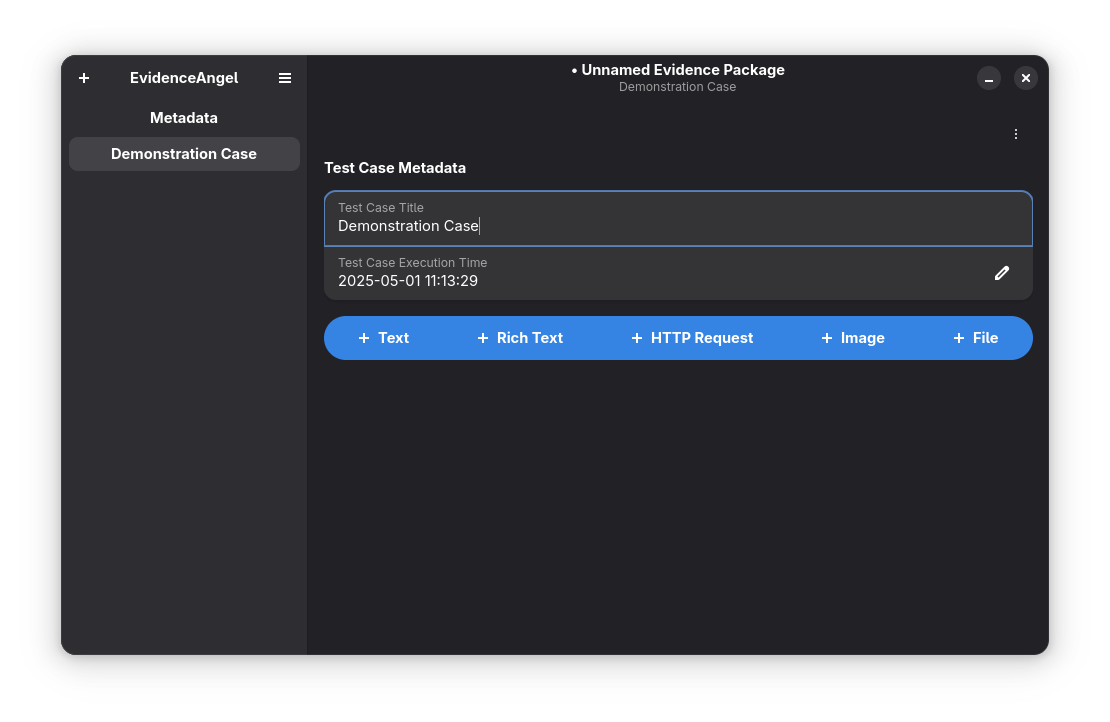
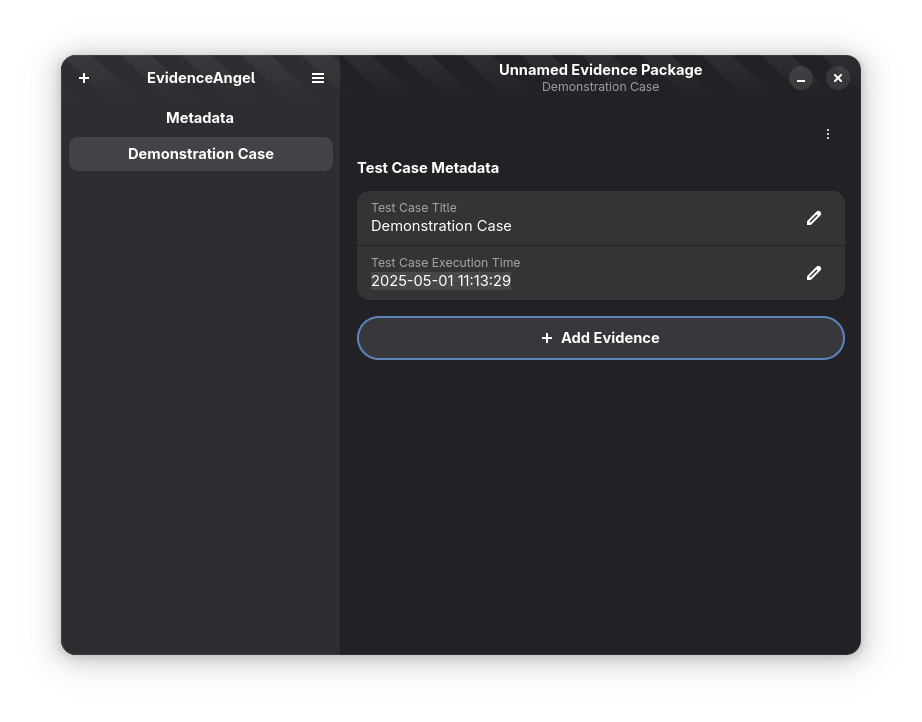
docs: updated steps to add evidence

diff --git a/docs/src/taking_evidence.md b/docs/src/taking_evidence.md
@@ -17,10 +17,10 @@ press <kbd>Ctrl+Shift+V</kbd>, or follow these steps:
 
 ## Inserting Evidence
 
-1. Select the type of _evidence_ you wish to add by clicking the appropriate "+
-   &lt;Type&gt;" button.
+1. Select the "+ Add Evidence" button.
 
    ![add evidence buttons](./images/taking_evidence/add_evidence.png)
+1. Select the type of _evidence_ you wish to add.
 1. Follow the steps to add the _evidence_.
 
 ### Supported Evidence
